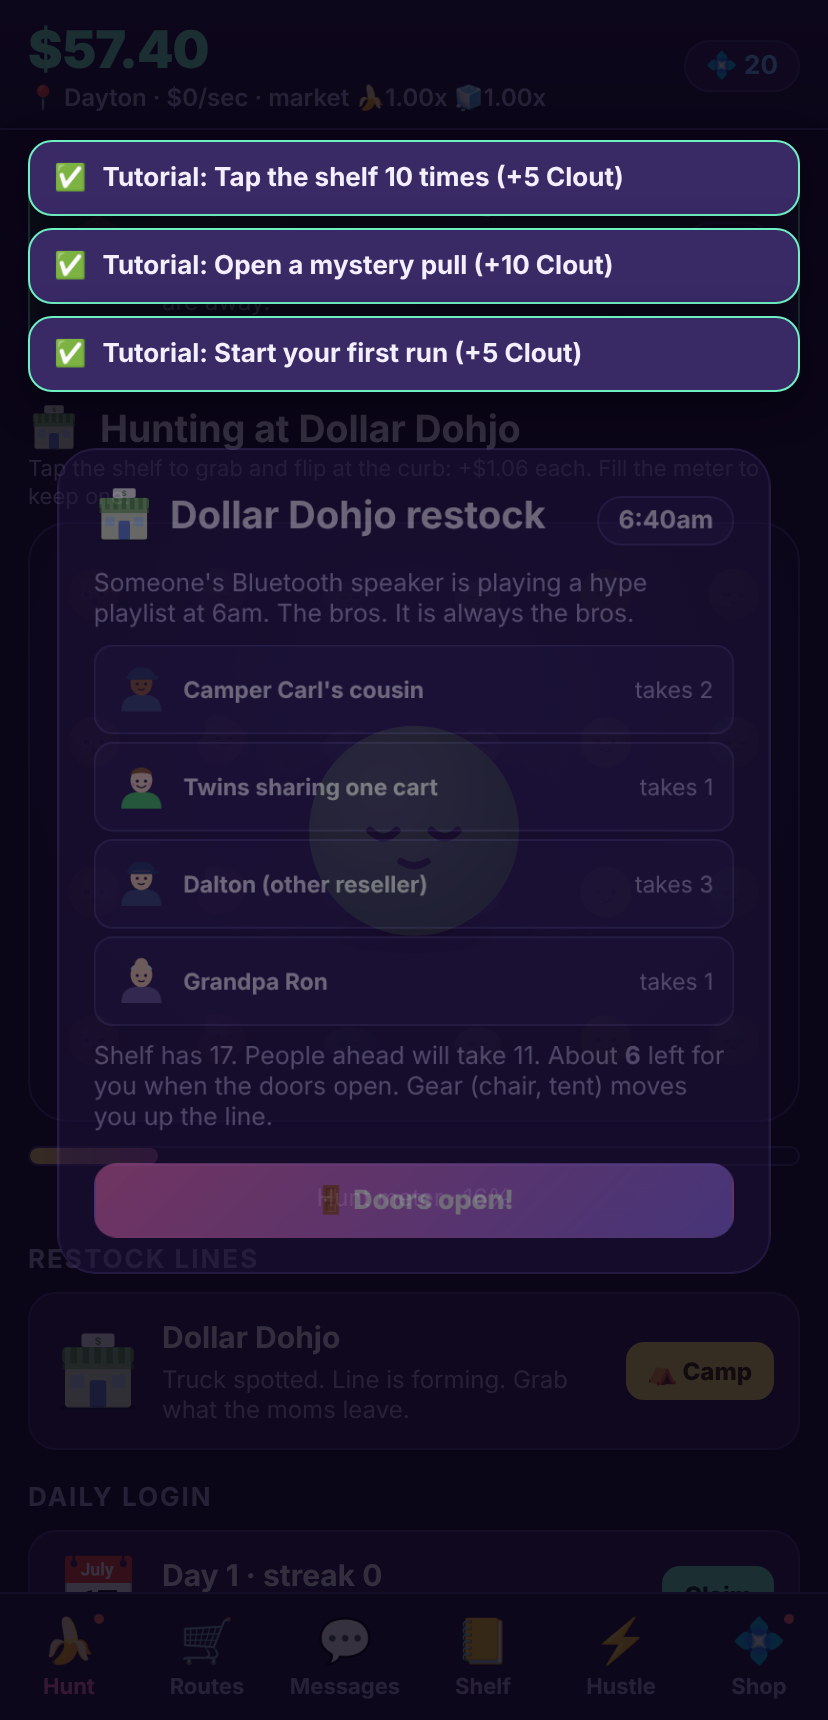
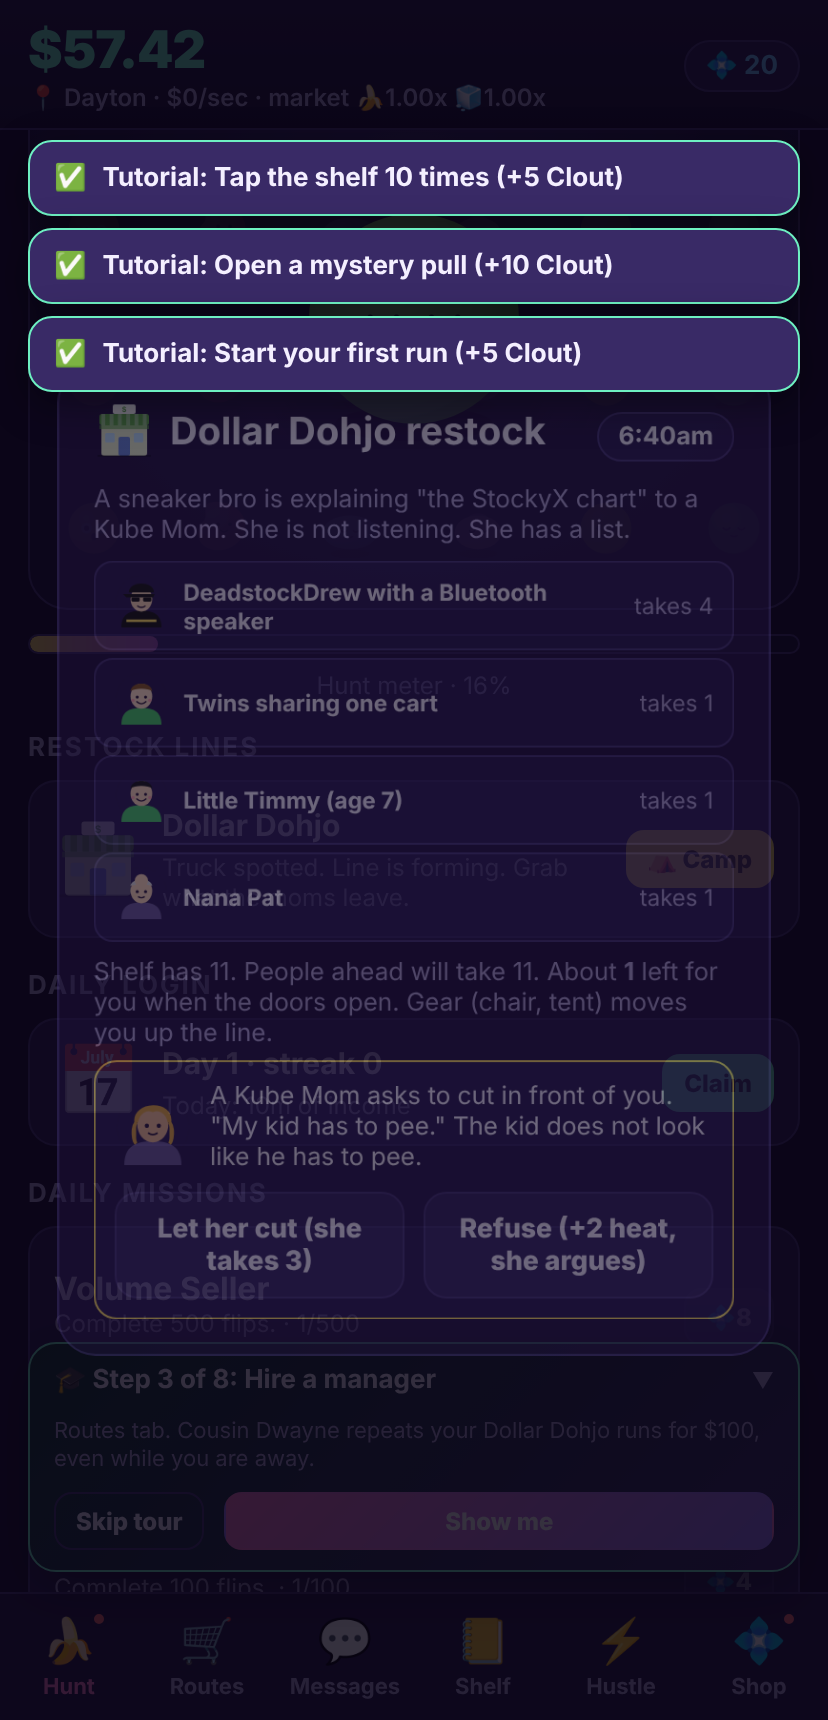
Scalping Squishies: splash screen and optional guided tour
Launch splash with animated sprites, title, tagline and load bar (tap or
wait). First launch asks: take the two-minute tour or skip. The tour is
a coach bubble above the nav that names the current step, explains it,
jumps to the right tab and pulses the exact button to tap; it advances
as steps complete and ends before the long-term relocate step. Replay
from Settings without re-paying step rewards. Existing players are not
interrupted. Smoke and soak drive the new flow.

Claude-Session: https://claude.ai/code/session_01MZnGvyVSyAsA5yFMotXPV8

diff --git a/scalping-squishies/src/ui/Coach.tsx b/scalping-squishies/src/ui/Coach.tsx
@@ -1,0 +1,83 @@
+import { useEffect, useState } from 'react';
+import { useGame } from '../engine/store';
+import { TUTORIAL } from '../engine/data/tutorial';
+
+const TARGETS: Record<string, string> = {
+  t_tap: 'shelf',
+  t_unit: 'start-run',
+  t_manager: 'hire',
+  t_restock: 'camp',
+  t_deal: 'offer',
+  t_upgrade: 'upgrade',
+  t_pull: 'free-pull',
+  t_mission: 'mission',
+  t_prestige: 'relocate',
+};
+
+/** First-launch choice, then a coach bubble that walks the tutorial steps. */
+export function Coach() {
+  const s = useGame((g) => g.s);
+  const splashDone = useGame((g) => g.splashDone);
+  const setChoice = useGame((g) => g.setTutorialChoice);
+  const requestTab = useGame((g) => g.requestTab);
+  const [collapsed, setCollapsed] = useState(false);
+  const step = TUTORIAL.find((t) => !s.tutorialDone.includes(t.id));
+  const idx = step ? TUTORIAL.indexOf(step) : TUTORIAL.length;
+  // The tour ends before the long-term prestige step.
+  const active = s.tutorialChoice === 'on' && !!step && idx < TUTORIAL.length - 1;
+
+  // Highlight the element for the current step wherever it is rendered.
+  useEffect(() => {
+    if (!active || !step) return;
+    const key = TARGETS[step.id];
+    let el: Element | null = null;
+    const apply = () => {
+      document.querySelectorAll('.tut-target').forEach((e) => e.classList.remove('tut-target'));
+      el = document.querySelector(`[data-tut="${key}"]`);
+      el?.classList.add('tut-target');
+    };
+    apply();
+    const t = setInterval(apply, 500);
+    return () => { clearInterval(t); el?.classList.remove('tut-target'); };
+  }, [active, step]);
+
+  useEffect(() => {
+    if (s.tutorialChoice === 'on' && step && idx >= TUTORIAL.length - 1) setChoice('done');
+  }, [s.tutorialChoice, step, idx, setChoice]);
+
+  if (!splashDone) return null;
+
+  if (s.tutorialChoice === 'pending') {
+    return (
+      <div className="overlay">
+        <div className="modal center">
+          <h2>First time on the block?</h2>
+          <p>A two-minute tour walks you through tapping, your first run, a restock line and the Marketplace. You can skip it and still earn the step rewards on your own.</p>
+          <div className="actions">
+            <button className="btn" onClick={() => setChoice('off')}>Skip, I've camped before</button>
+            <button className="btn primary" onClick={() => { setChoice('on'); requestTab('hunt'); }}>Take the tour</button>
+          </div>
+        </div>
+      </div>
+    );
+  }
+
+  if (!active || !step) return null;
+  return (
+    <div className={`coach ${collapsed ? 'collapsed' : ''}`}>
+      <div className="row between" onClick={() => setCollapsed(!collapsed)}>
+        <b>🎓 Step {idx + 1} of {TUTORIAL.length - 1}: {step.text}</b>
+        <span className="small">{collapsed ? '▲' : '▼'}</span>
+      </div>
+      {!collapsed && (
+        <>
+          <div className="small mt">{step.hint}</div>
+          <div className="row mt">
+            <button className="btn ghost sm" onClick={() => setChoice('off')}>Skip tour</button>
+            <button className="btn primary sm grow" onClick={() => { requestTab(step.tab); setTimeout(() => document.querySelector(`[data-tut="${TARGETS[step.id]}"]`)?.scrollIntoView({ behavior: 'smooth', block: 'center' }), 150); }}>Show me</button>
+          </div>
+        </>
+      )}
+    </div>
+  );
+}

diff --git a/scalping-squishies/src/styles.css b/scalping-squishies/src/styles.css
@@ -190,4 +190,24 @@ body.shake .app { animation: shake 0.5s; }
 .rank.beaten b { color: var(--mint); }
 input.handle { flex: 1; background: var(--bg); color: var(--text); border: 1px solid var(--line); border-radius: 8px; padding: 8px 10px; font: inherit; font-size: 13px; }
 .flipmath { gap: 6px; margin-top: 4px; color: var(--muted); align-items: center; }
+.splash { position: fixed; inset: 0; z-index: 90; background: radial-gradient(circle at 50% 30%, #3b2a6e, #1a1030 70%); display: flex; flex-direction: column; align-items: center; justify-content: center; text-align: center; padding: 24px; animation: splashIn 0.4s ease-out; }
+@keyframes splashIn { from { opacity: 0; } to { opacity: 1; } }
+.splash-art { position: relative; width: 240px; height: 170px; }
+.splash-sprite { position: absolute; animation: bob 2.4s ease-in-out infinite; }
+.splash-sprite.a { left: 50px; top: 10px; animation-delay: 0s; }
+.splash-sprite.b { left: 120px; top: 40px; animation-delay: 0.4s; }
+.splash-sprite.c { left: 10px; top: 80px; animation-delay: 0.8s; }
+@keyframes bob { 0%, 100% { transform: translateY(0) rotate(-3deg); } 50% { transform: translateY(-10px) rotate(3deg); } }
+.splash-title { font-size: 44px; line-height: 0.95; font-weight: 900; letter-spacing: -1px; margin: 8px 0 10px; background: linear-gradient(90deg, var(--pink), var(--gold), var(--mint)); -webkit-background-clip: text; background-clip: text; color: transparent; }
+.splash-tag { color: var(--muted); font-weight: 700; margin-bottom: 22px; }
+.splash-bar { width: 180px; height: 8px; border-radius: 999px; background: #1b1233; border: 1px solid var(--line); overflow: hidden; }
+.splash-bar i { display: block; height: 100%; width: 0; background: linear-gradient(90deg, var(--mint), var(--blue)); animation: fill 1.1s ease-out forwards; }
+@keyframes fill { to { width: 100%; } }
+.splash-hint { margin-top: 12px; font-size: 13px; color: var(--muted); animation: pulse 1.4s ease-in-out infinite; }
+@keyframes pulse { 0%, 100% { opacity: 0.5; } 50% { opacity: 1; } }
+.splash-ver { position: absolute; bottom: calc(16px + var(--safe-b)); font-size: 11px; color: #6a5a9a; }
+.coach { position: fixed; left: 50%; transform: translateX(-50%); bottom: calc(var(--nav-h) + var(--safe-b) + 10px); width: calc(100% - 28px); max-width: 480px; background: linear-gradient(135deg, #103a30, var(--card2)); border: 1px solid var(--mint); border-radius: 14px; padding: 10px 12px; z-index: 40; font-size: 13px; box-shadow: 0 8px 24px rgba(0,0,0,0.45); }
+.coach.collapsed { padding: 8px 12px; }
+.tut-target { outline: 3px solid var(--mint); outline-offset: 3px; border-radius: 12px; animation: tutPulse 1.2s ease-in-out infinite; }
+@keyframes tutPulse { 0%, 100% { outline-color: var(--mint); } 50% { outline-color: var(--gold); } }
 .debug { font-size: 11px; color: var(--muted); margin-top: 20px; }

diff --git a/scalping-squishies/src/ui/BoostTab.tsx b/scalping-squishies/src/ui/BoostTab.tsx
@@ -53,7 +53,7 @@ export function BoostTab() {
             </div>
           </div>
         </div>
-        <button className="btn gold block mt" disabled={gain <= 0} onClick={openRelocate}>
+        <button className="btn gold block mt" data-tut="relocate" disabled={gain <= 0} onClick={openRelocate}>
           {gain > 0 ? `Relocate for +⭐${formatNumber(gain)}` : `Earn ${formatCash(PRESTIGE_MIN_EARNED)} this run to relocate (${formatCash(s.stats.totalCashEarned)})`}
         </button>
       </div>
@@ -75,8 +75,8 @@ export function BoostTab() {
       {(view === 'cash' || view === 'sketchy' || view === 'clout' || view === 'cred') && (
         <>
           {list.length === 0 && <div className="card center sub">{view === 'cred' ? 'Relocate at least once to unlock Reputation upgrades.' : 'Nothing left to buy here right now.'}</div>}
-          {list.map((u) => (
-            <div className="card row" key={u.id}>
+          {list.map((u, i) => (
+            <div className="card row" key={u.id} data-tut={i === 0 ? 'upgrade' : undefined}>
               <div className="ico-lg">{u.icon}</div>
               <div className="grow">
                 <h3>{u.name}</h3>
@@ -161,11 +161,13 @@ function Settings() {
   const importSave = useGame((g) => g.importSave);
   const reset = useGame((g) => g.reset);
   const toast = useGame((g) => g.toast);
+  const replayTutorial = useGame((g) => g.replayTutorial);
   const [txt, setTxt] = useState('');
   return (
     <div>
       <div className="card">
         <div className="row between"><span>Haptics</span><button className="btn sm" onClick={() => setSetting('haptics', !s.settings.haptics)}>{s.settings.haptics ? 'On' : 'Off'}</button></div>
+        <div className="row between mt"><span>Tutorial tour</span><button className="btn sm" onClick={replayTutorial}>Replay</button></div>
         <div className="row between mt"><span>Sound effects</span><button className="btn sm" onClick={() => setSetting('sfx', !s.settings.sfx)}>{s.settings.sfx ? 'On' : 'Off'}</button></div>
         <div className="row between mt"><span>Number format</span><button className="btn sm" onClick={() => setSetting('notation', s.settings.notation === 'short' ? 'scientific' : 'short')}>{s.settings.notation}</button></div>
       </div>

diff --git a/scalping-squishies/src/ui/HuntTab.tsx b/scalping-squishies/src/ui/HuntTab.tsx
@@ -84,7 +84,7 @@ export function HuntTab() {
           <div className="small">Tap the shelf to grab and flip at the curb: +{formatCash(tv)} each. Fill the meter to keep one.</div>
         </div>
       </div>
-      <div className="shelf" onPointerDown={onTap}>
+      <div className="shelf" data-tut="shelf" onPointerDown={onTap}>
         <div className="pile-bg" aria-hidden>
           {Array.from({ length: 24 }, (_, i) => <span key={i}><Sprite id={bgItems[(i + 1) % bgItems.length]?.id ?? 'sq_nana'} size={34} /></span>)}
         </div>
@@ -109,7 +109,7 @@ export function HuntTab() {
               <h3>{st.name}</h3>
               <div className="sub">{banned ? `BANNED · ${formatDuration((until - now) / 1000)} left` : ready ? 'Truck spotted. Line is forming. Grab what the moms leave.' : `Next restock in ${formatDuration((until - now) / 1000)}`}</div>
             </div>
-            <button className="btn gold sm" disabled={!ready} onClick={() => restockStart(st.id)}>{banned ? '🚫' : ready ? '⛺ Camp' : '⏳'}</button>
+            <button className="btn gold sm" data-tut={ready ? 'camp' : undefined} disabled={!ready} onClick={() => restockStart(st.id)}>{banned ? '🚫' : ready ? '⛺ Camp' : '⏳'}</button>
           </div>
         );
       })}
@@ -136,7 +136,7 @@ export function HuntTab() {
                 <div className="sub">{d.blurb} · {Math.min(ms.progress, d.target).toLocaleString(undefined, { maximumFractionDigits: 0 })}/{d.target}</div>
                 <div className="progress" style={{ marginTop: 4 }}><i style={{ width: `${Math.min(100, (ms.progress / d.target) * 100)}%` }} /></div>
               </div>
-              <button className="btn sm" disabled={!done || ms.claimed} onClick={() => claimMissionReward(ms.id)}>
+              <button className="btn sm" data-tut={done && !ms.claimed ? 'mission' : undefined} disabled={!done || ms.claimed} onClick={() => claimMissionReward(ms.id)}>
                 {ms.claimed ? '✓' : `💠${d.rewardClout}`}
               </button>
             </div>

diff --git a/scalping-squishies/src/ui/Splash.tsx b/scalping-squishies/src/ui/Splash.tsx
@@ -1,0 +1,31 @@
+import { useEffect, useState } from 'react';
+import { useGame } from '../engine/store';
+import { Sprite } from '../art/Sprite';
+import { CONFIG } from '../config';
+
+/** Launch screen: logo, tagline, a short load bar, tap or wait to continue. */
+export function Splash() {
+  const done = useGame((g) => g.splashDone);
+  const dismiss = useGame((g) => g.dismissSplash);
+  const [ready, setReady] = useState(false);
+  useEffect(() => {
+    const a = setTimeout(() => setReady(true), 1100);
+    const b = setTimeout(() => dismiss(), 2600);
+    return () => { clearTimeout(a); clearTimeout(b); };
+  }, [dismiss]);
+  if (done) return null;
+  return (
+    <div className="splash" onPointerDown={() => ready && dismiss()}>
+      <div className="splash-art">
+        <div className="splash-sprite a"><Sprite id="doh_kube" size={120} /></div>
+        <div className="splash-sprite b"><Sprite id="sq_nana" size={110} /></div>
+        <div className="splash-sprite c"><Sprite id="doh_glob" size={80} variant="glow" /></div>
+      </div>
+      <h1 className="splash-title">Scalping<br />Squishies</h1>
+      <div className="splash-tag">Camp the drops. Flip the dohs. Get banned.</div>
+      <div className="splash-bar"><i /></div>
+      <div className="splash-hint">{ready ? 'Tap to start' : 'Loading the parking lot…'}</div>
+      <div className="splash-ver">v{CONFIG.version} · all brands are parodies</div>
+    </div>
+  );
+}

diff --git a/scalping-squishies/src/ui/StoresTab.tsx b/scalping-squishies/src/ui/StoresTab.tsx
@@ -91,7 +91,7 @@ export function StoresTab() {
                   <div className="sub">{unlocked ? st.tagline : `Unlocks at ${st.unlockAtTotalUnits} total runs`}</div>
                 )}
               </div>
-              <button className="btn primary" disabled={!canBuy} onClick={() => buyUnits(st.id)}>
+              <button className="btn primary" data-tut={st.id === 'dollar' ? 'start-run' : undefined} disabled={!canBuy} onClick={() => buyUnits(st.id)}>
                 <span className="btn-col">
                   <span>{ss.units > 0 ? 'Add' : 'Start'} {count > 1 ? `${count} runs` : 'run'}</span>
                   <span className="price">{formatCash(cost)}</span>
@@ -101,7 +101,7 @@ export function StoresTab() {
             {ss.units > 0 && !ss.manager && (
               <div className="row between mt">
                 <span className="small">{mgr.icon} {mgr.name}: {mgr.blurb}</span>
-                <button className="btn gold sm" disabled={s.cash < mgr.cost} onClick={() => hireManager(st.id)}>
+                <button className="btn gold sm" data-tut={st.id === 'dollar' ? 'hire' : undefined} disabled={s.cash < mgr.cost} onClick={() => hireManager(st.id)}>
                   Hire {formatCash(mgr.cost)}
                 </button>
               </div>

diff --git a/scalping-squishies/src/engine/state.ts b/scalping-squishies/src/engine/state.ts
@@ -41,6 +41,8 @@ export function initialState(now = Date.now()): GameState {
     city: 'dayton',
     cityOffer: null,
     tutorialDone: [],
+    tutorialPaid: [],
+    tutorialChoice: 'pending',
     rankRewarded: [],
     conWeek: { week: '', units: 0 },
     handle: '',
@@ -104,6 +106,9 @@ export function migrate(raw: unknown, now = Date.now()): GameState {
     fakes: Array.isArray(s.fakes) ? s.fakes : [],
     restockReadyAt: s.restockReadyAt ?? {},
     tutorialDone: Array.isArray(s.tutorialDone) ? s.tutorialDone : [],
+    tutorialPaid: Array.isArray(s.tutorialPaid) ? s.tutorialPaid : (Array.isArray(s.tutorialDone) ? s.tutorialDone : []),
+    // Existing players who never saw the choice: do not interrupt them.
+    tutorialChoice: s.tutorialChoice ?? ((s.stats?.taps ?? 0) > 0 ? 'off' : 'pending'),
     rankRewarded: Array.isArray(s.rankRewarded) ? s.rankRewarded : [],
     city: typeof s.city === 'string' ? s.city : 'dayton',
     conWeek: s.conWeek ?? fresh.conWeek,

diff --git a/scalping-squishies/src/engine/store.ts b/scalping-squishies/src/engine/store.ts
@@ -60,6 +60,10 @@ interface GameStore {
   /** Apply purchases recorded by the server webhook that this device has not seen. */
   cloudClaimGrants: () => Promise<void>;
   setHandle: (h: string) => void;
+  setTutorialChoice: (c: GameState['tutorialChoice']) => void;
+  replayTutorial: () => void;
+  splashDone: boolean;
+  dismissSplash: () => void;
   reset: () => void;
   exportSave: () => string;
   importSave: (json: string) => boolean;
@@ -253,6 +257,10 @@ export const useGame = create<GameStore>((set, get) => {
       get().save();
     },
     setHandle: (h) => mutate((s) => { s.handle = h.slice(0, 24); }),
+    setTutorialChoice: (c) => { mutate((s) => { s.tutorialChoice = c; }); get().save(); },
+    replayTutorial: () => { mutate((s) => { s.tutorialDone = []; s.tutorialChoice = 'on'; }); get().requestTab('hunt'); },
+    splashDone: false,
+    dismissSplash: () => set({ splashDone: true }),
 
     adoptSave: (json) => {
       const now = Date.now();

diff --git a/scalping-squishies/src/ui/ShelfTab.tsx b/scalping-squishies/src/ui/ShelfTab.tsx
@@ -53,7 +53,7 @@ export function ShelfTab() {
           <button className="btn primary grow" onClick={() => pull(10)} disabled={s.clout < CLOUT_COSTS.pull10}>
             <span className="btn-col"><span>Pull x10</span><span className="price">💠{CLOUT_COSTS.pull10}</span></span>
           </button>
-          <button className="btn gold grow" onClick={() => void watchAd('free_pull')} disabled={!adReady}>
+          <button className="btn gold grow" data-tut="free-pull" onClick={() => void watchAd('free_pull')} disabled={!adReady}>
             <span className="btn-col"><span>📺 Free</span><span className="price">{adReady ? 'watch video' : 'cooldown'}</span></span>
           </button>
         </div>

diff --git a/scalping-squishies/src/ui/DealsTab.tsx b/scalping-squishies/src/ui/DealsTab.tsx
@@ -54,7 +54,7 @@ export function DealsTab() {
         const tag = KIND_TAG[o.kind];
         const showTag = o.kind === 'karen' || o.kind === 'trade' || o.kind === 'lowball' || o.kind === 'sneakerbro' || (o.kind === 'scam' && o.flagged);
         return (
-          <div className={`card offer ${o.flagged ? 'flagged' : ''}`} key={o.id}>
+          <div className={`card offer ${o.flagged ? 'flagged' : ''}`} key={o.id} data-tut="offer">
             <div className="row">
               <div className="ico-lg"><Portrait kind={o.flagged || o.kind !== 'scam' ? KIND_PORTRAIT[o.kind] : 'buyer'} size={44} seed={o.id} /></div>
               <div className="grow">

diff --git a/scalping-squishies/src/ui/App.tsx b/scalping-squishies/src/ui/App.tsx
@@ -19,6 +19,8 @@ import { Overlays, AdOverlay, PurchaseOverlay } from './Overlays';
 import { RestockOverlay } from './RestockOverlay';
 import { RelocateOverlay } from './RelocateOverlay';
 import { Fx } from './Fx';
+import { Splash } from './Splash';
+import { Coach } from './Coach';
 import { dailyAvailable } from '../engine/sim';
 import { MISSION_POOL } from '../engine/data/missions';
 
@@ -145,7 +147,9 @@ export function App() {
       <Overlays />
       <RestockOverlay />
       <RelocateOverlay />
+      <Coach />
       <Fx />
+      <Splash />
       {adReq && (
         <AdOverlay
           placement={adReq.placement}

diff --git a/scalping-squishies/src/engine/sim.ts b/scalping-squishies/src/engine/sim.ts
@@ -282,7 +282,11 @@ export function tick(s: GameState, dt: number, now: number, rand: () => number =
   // Tutorial steps complete themselves from state.
   for (const t of TUTORIAL) {
     if (s.tutorialDone.includes(t.id)) continue;
-    if (t.check(s)) { s.tutorialDone.push(t.id); s.clout += t.clout; res.tutorialDone.push(t.id); }
+    if (t.check(s)) {
+      s.tutorialDone.push(t.id);
+      if (!s.tutorialPaid.includes(t.id)) { s.tutorialPaid.push(t.id); s.clout += t.clout; }
+      res.tutorialDone.push(t.id);
+    }
   }
   // Local rankings: overtaking a rival pays Clout.
   for (const r of RANKED_RIVALS) {
